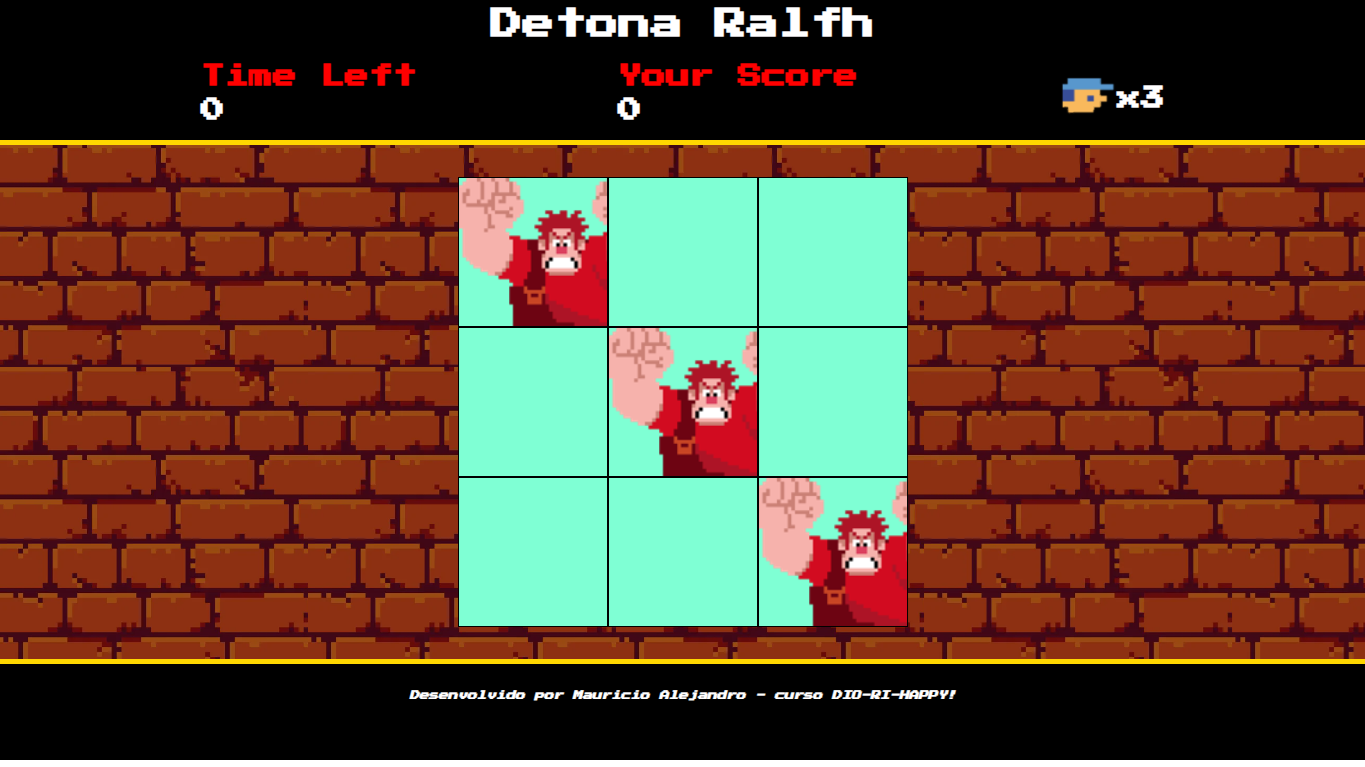
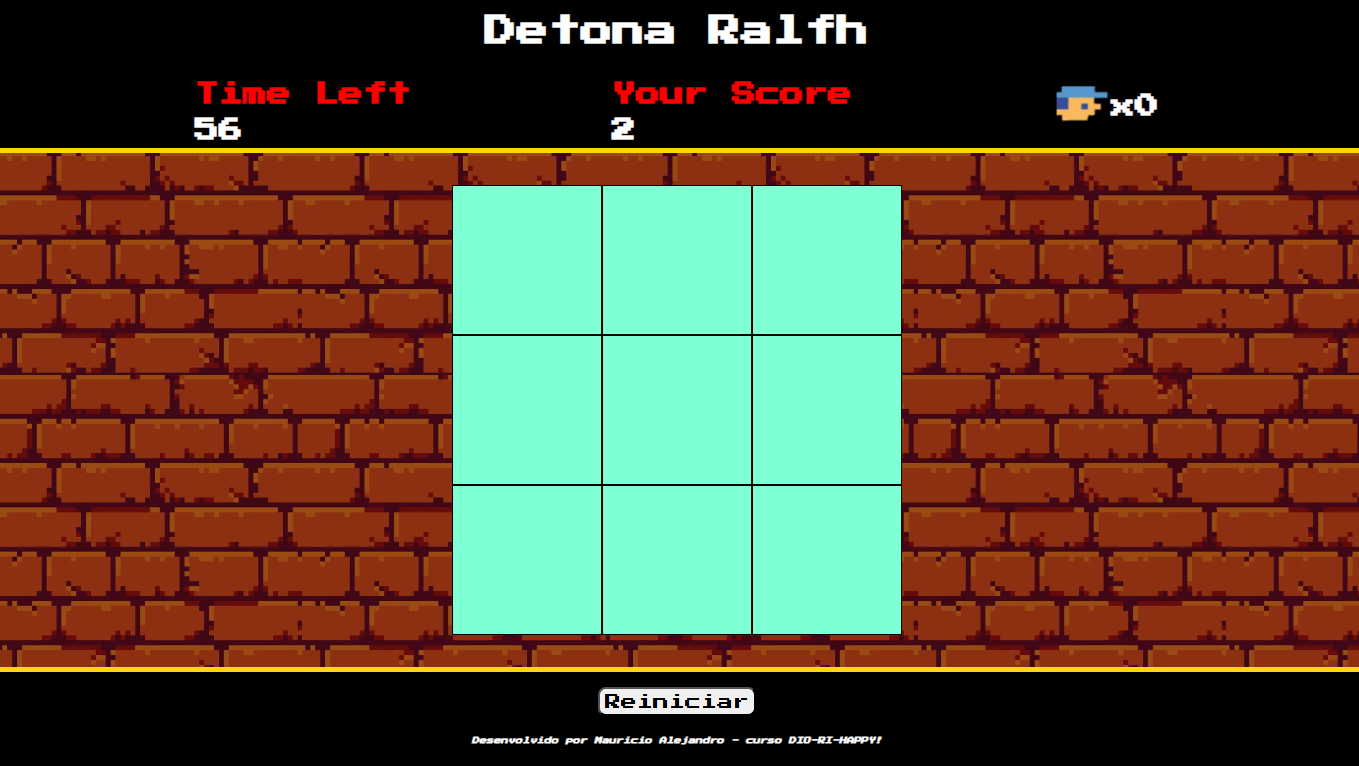
fazendo atualizações e acrescentando botão reiniciar

diff --git a/src/scripts/engine.js b/src/scripts/engine.js
@@ -76,7 +76,31 @@ function addListenerHitBox() {
         });
     });
 }
-    
+
+function restartGame() {
+    // Resetar valores
+    state.values.lives = 3;
+    state.values.result = 0;
+    state.values.currentTime = 60;
+    state.view.lives.textContent = state.values.lives;
+    state.view.score.textContent = state.values.result;
+    state.view.timeLeft.textContent = state.values.currentTime;
+
+    // Reativar quadrados
+    state.view.squares.forEach((square) => {
+        square.classList.remove("enemy");
+        square.style.pointerEvents = "auto";
+    });
+
+    // Limpar intervalos antigos
+    clearInterval(state.actions.timeId);
+    clearInterval(state.actions.countDownTimerId);
+
+    // Iniciar novamente
+    state.actions.timeId = setInterval(randomSquare, 1000);
+    state.actions.countDownTimerId = setInterval(countDown, 1000);
+}
+
 function initialize() {       
     addListenerHitBox();    
 }
@@ -84,3 +108,5 @@ function initialize() {
 document.addEventListener("DOMContentLoaded", () => {
     initialize();
 });
+
+document.getElementById("restart").addEventListener("click", restartGame);

diff --git a/index.html b/index.html
@@ -63,7 +63,8 @@
 
     <!-- Rodape -->
     <footer>
-        <h1>Desenvolvido por Mauricio Alejandro - curso DIO-RI-HAPPY!</h1>
+        <button id="restart">Reiniciar</button>
+        <h2>Desenvolvido por Mauricio Alejandro - curso DIO-RI-HAPPY!</h2>
     </footer>
     
     <!-- Scripts -->

diff --git a/src/styles/styles.css b/src/styles/styles.css
@@ -76,6 +76,12 @@ footer {
     padding: 10px;
 }
 
-footer h1{
+footer button {
+    font-size: 1rem;
+    margin: .3rem;
+    padding: .3rem;
+    border-radius: .5rem;
+}
+footer h2{
     padding-top: 1rem;
 }
